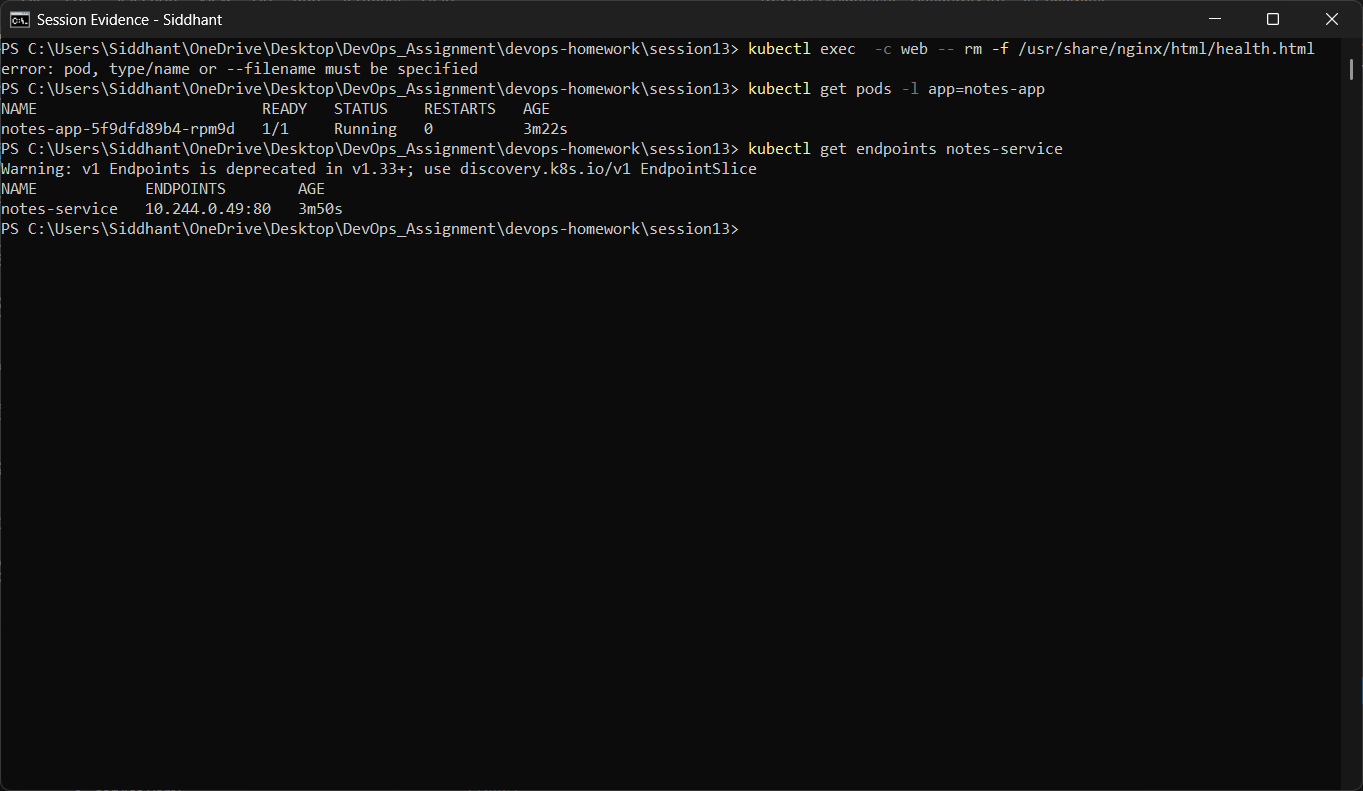
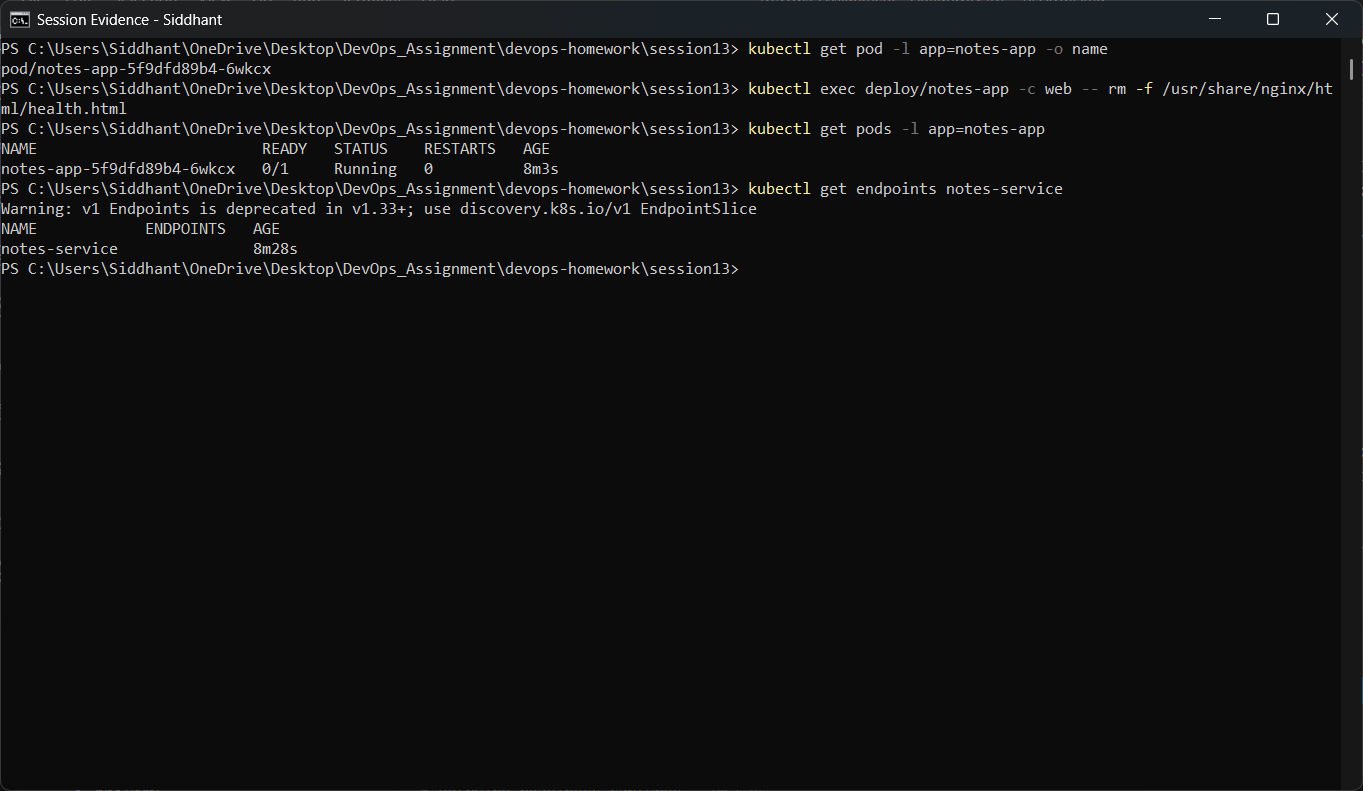
Session 13: add probe failure/recovery screenshots and sync README commands
The readiness demo now shows the real captured sequence: deleting health.html
puts the Pod at 0/1 Running with RESTARTS 0 and empties the Service endpoints,
and restoring the file refills them.

Changed region(s): [[0.0, 0.0607, 0.7704, 0.3641], [0.5855, 0.0607, 0.9861, 0.1214]]

diff --git a/session13/README.md b/session13/README.md
@@ -275,7 +275,8 @@ Service will route traffic to it.
 ## 3.6 Breaking the readiness probe
 
 ```powershell
-kubectl exec $(kubectl get pod -l app=notes-app -o jsonpath="{.items[0].metadata.name}") -c web -- rm -f /usr/share/nginx/html/health.html
+kubectl get pod -l app=notes-app -o name
+kubectl exec deploy/notes-app -c web -- rm -f /usr/share/nginx/html/health.html
 kubectl get pods -l app=notes-app
 kubectl get endpoints notes-service
 ```
@@ -290,7 +291,7 @@ still `0`: readiness failure removes traffic, it does **not** restart the contai
 ## 3.7 Recovering
 
 ```powershell
-kubectl exec $(kubectl get pod -l app=notes-app -o jsonpath="{.items[0].metadata.name}") -c web -- sh -c "echo ok > /usr/share/nginx/html/health.html"
+kubectl exec deploy/notes-app -c web -- sh -c "echo ok > /usr/share/nginx/html/health.html"
 kubectl get pods -l app=notes-app
 kubectl get endpoints notes-service
 ```
